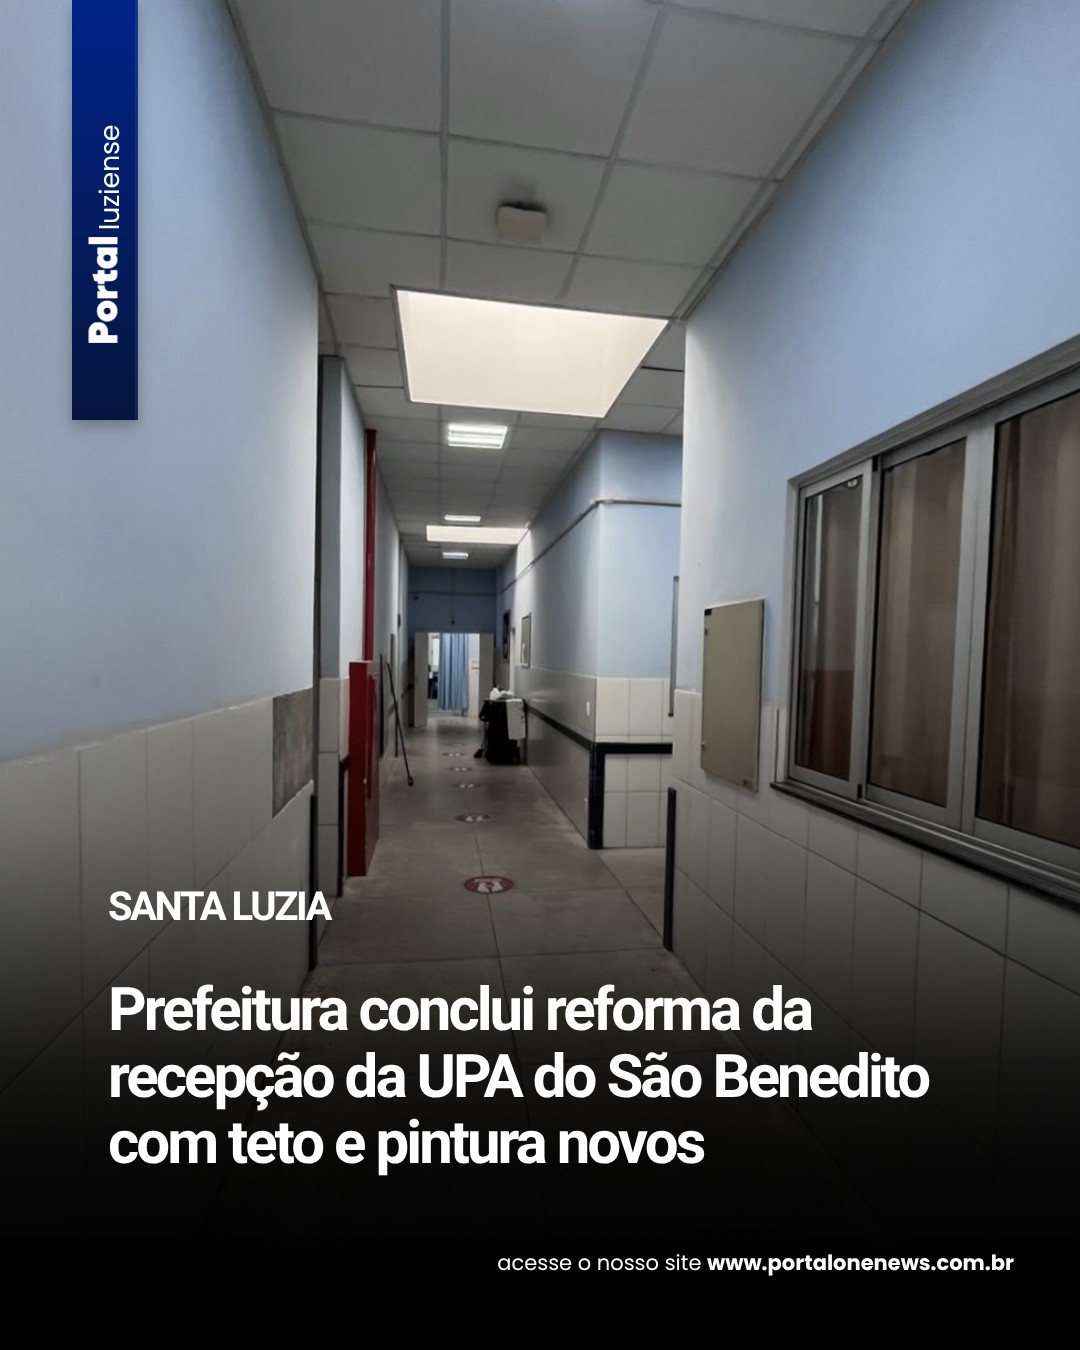
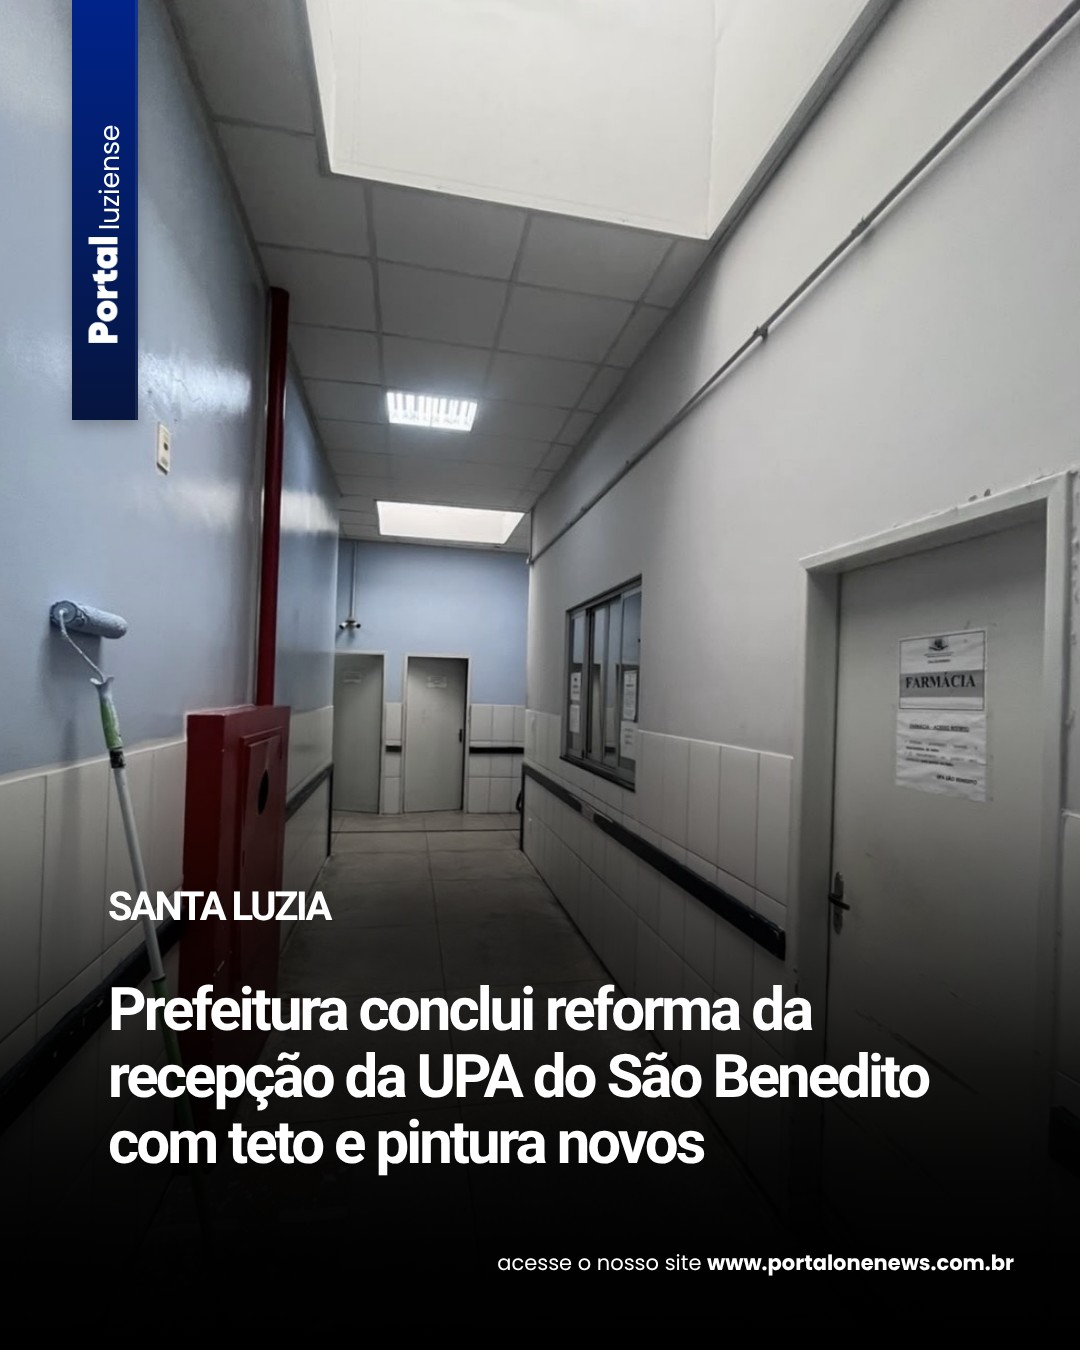
UPA São Benedito em carrossel + regra: várias fotos = carrossel

diff --git a/REGRAS.md b/REGRAS.md
@@ -195,6 +195,9 @@
 - Molduras de Reels no `reels.html`: padrão = Luziense; `?portal=one` = Canva "REELS ONE NEWS" (canva.link/4k8klc77od955qf); `?portal=comercio` = Canva "REELS COMERCIO" (canva.link/a1l5w0h25oqqb66). Reels de foto: trilha própria `animada` (institucional) do `est-dio-eleve/chip/chip-de-edicao/scripts/trilha.py`.
 - Como fazer: gere o PNG da moldura com o `reels.html` (Playwright, `omitBackground`), ponha por cima da foto/vídeo com ffmpeg (`overlay`) e publique com `ROBO_CHAVE=<chave do prompt> python3 robo/publicar.py --portal <portal> --legenda-arquivo /tmp/leg.txt --video <link>` (collab automática; se der ERRO, use o `create_video_post` do Windsor). Olhe um quadro do vídeo (Read) antes de publicar. **Vídeo: use o link raw.githubusercontent** (pelo jsDelivr o Instagram deu "container status: ERROR" 2 vezes em 10/11) e gere com `-loop 1 -framerate 30` + `-r 30` para não sair com quadros a mais. Ex.: `videos/2026-11-10/122000_presepios_moldura.mp4`.
 
+## 🖼 VÁRIAS FOTOS = CARROSSEL, SEMPRE (Israel, 21/11/2026 ~13h05: "Quando eu te mandar várias fotos, você sempre faz carrossel, você nunca sai do padrão")
+- Notícia que o Israel manda com **2 ou mais fotos** sai **sempre em carrossel** no Instagram: uma arte com moldura (etiqueta + título em 3 linhas) para **cada foto**, a melhor primeiro (`create_carousel_post`, ou painel com várias `--imagem`). Nunca escolher uma foto só. Em 21/11 a reforma da UPA do São Benedito saiu com uma foto só, ele apagou e mandou postar de novo em carrossel.
+
 ## ⚡ NOTÍCIA QUE O ISRAEL MANDA NA CONVERSA SAI NA HORA (Israel, 05/11/2026)
 - **"Portal Luziense" (ou Política, Comércio) quer dizer a moldura, não outra conta** (Israel, 10/11/2026): tudo é postado no **@portalonenews**, inclusive vídeo para Reels (`create_video_post`).
 - "Notícias que eu te mandar aqui você pode postar na hora, não precisa colocar em programação." Publique assim que preparar, **sem esperar o intervalo entre posts**. Se ele disser "só no site", vai só no site, também na hora; senão, Instagram e site. Continuam valendo as regras de moldura, título, foto e legenda.
